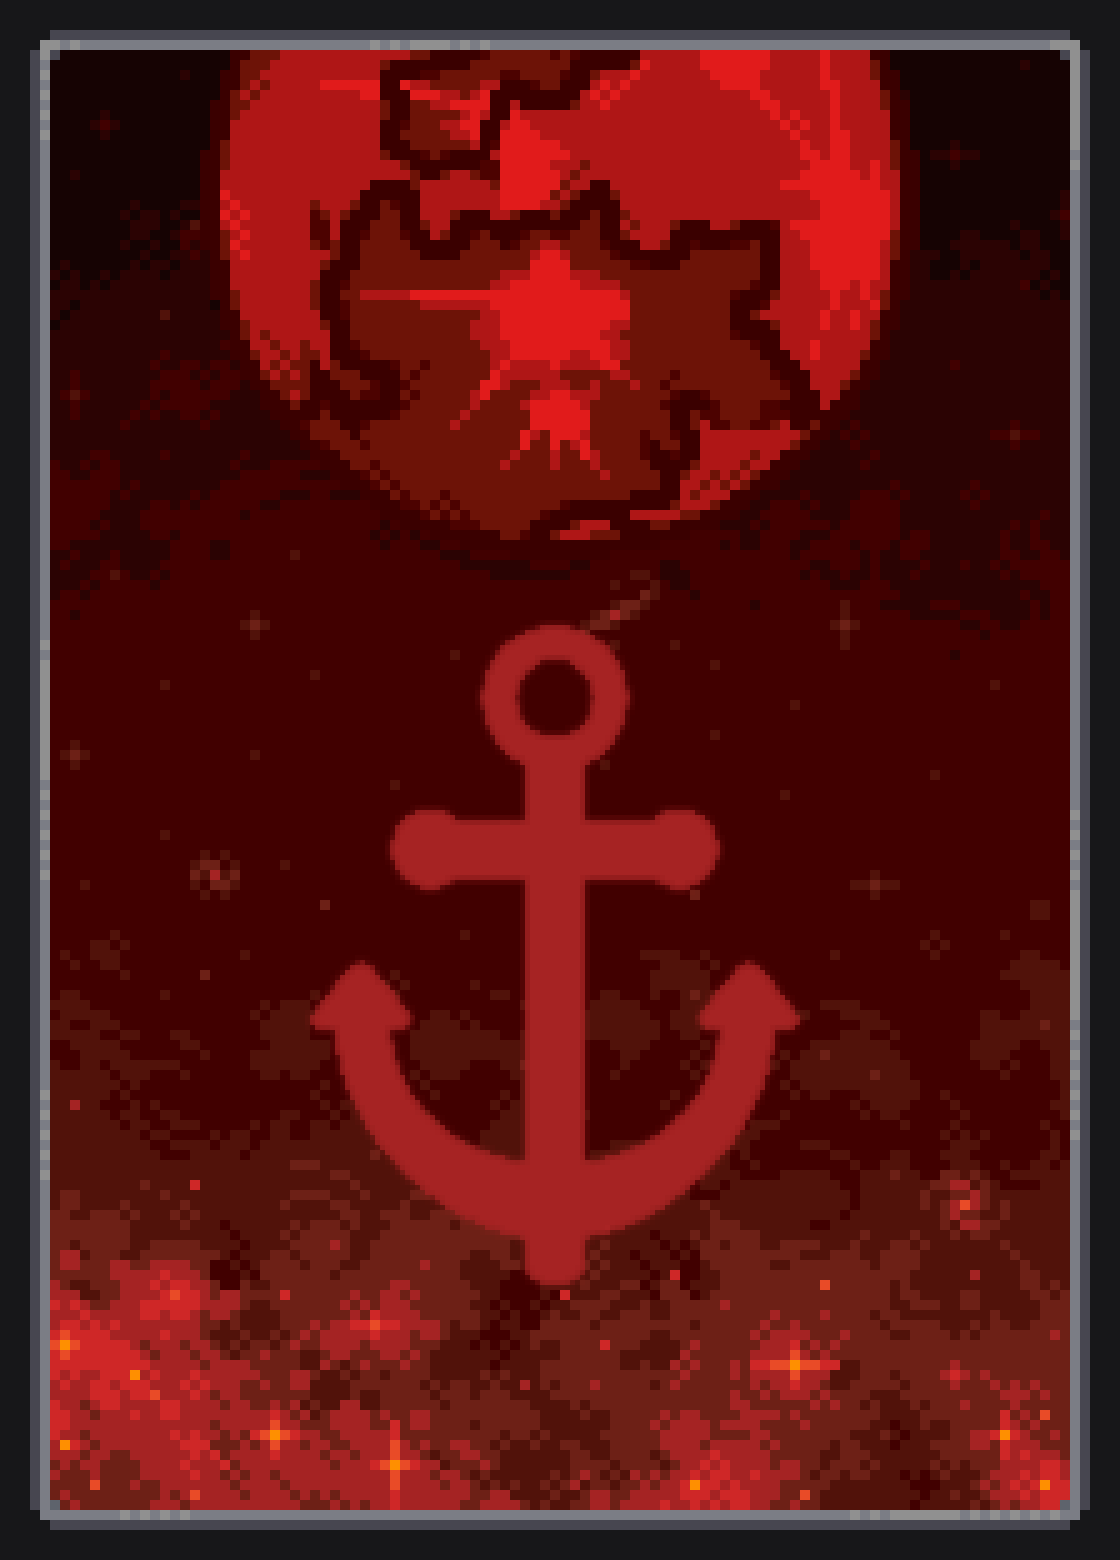
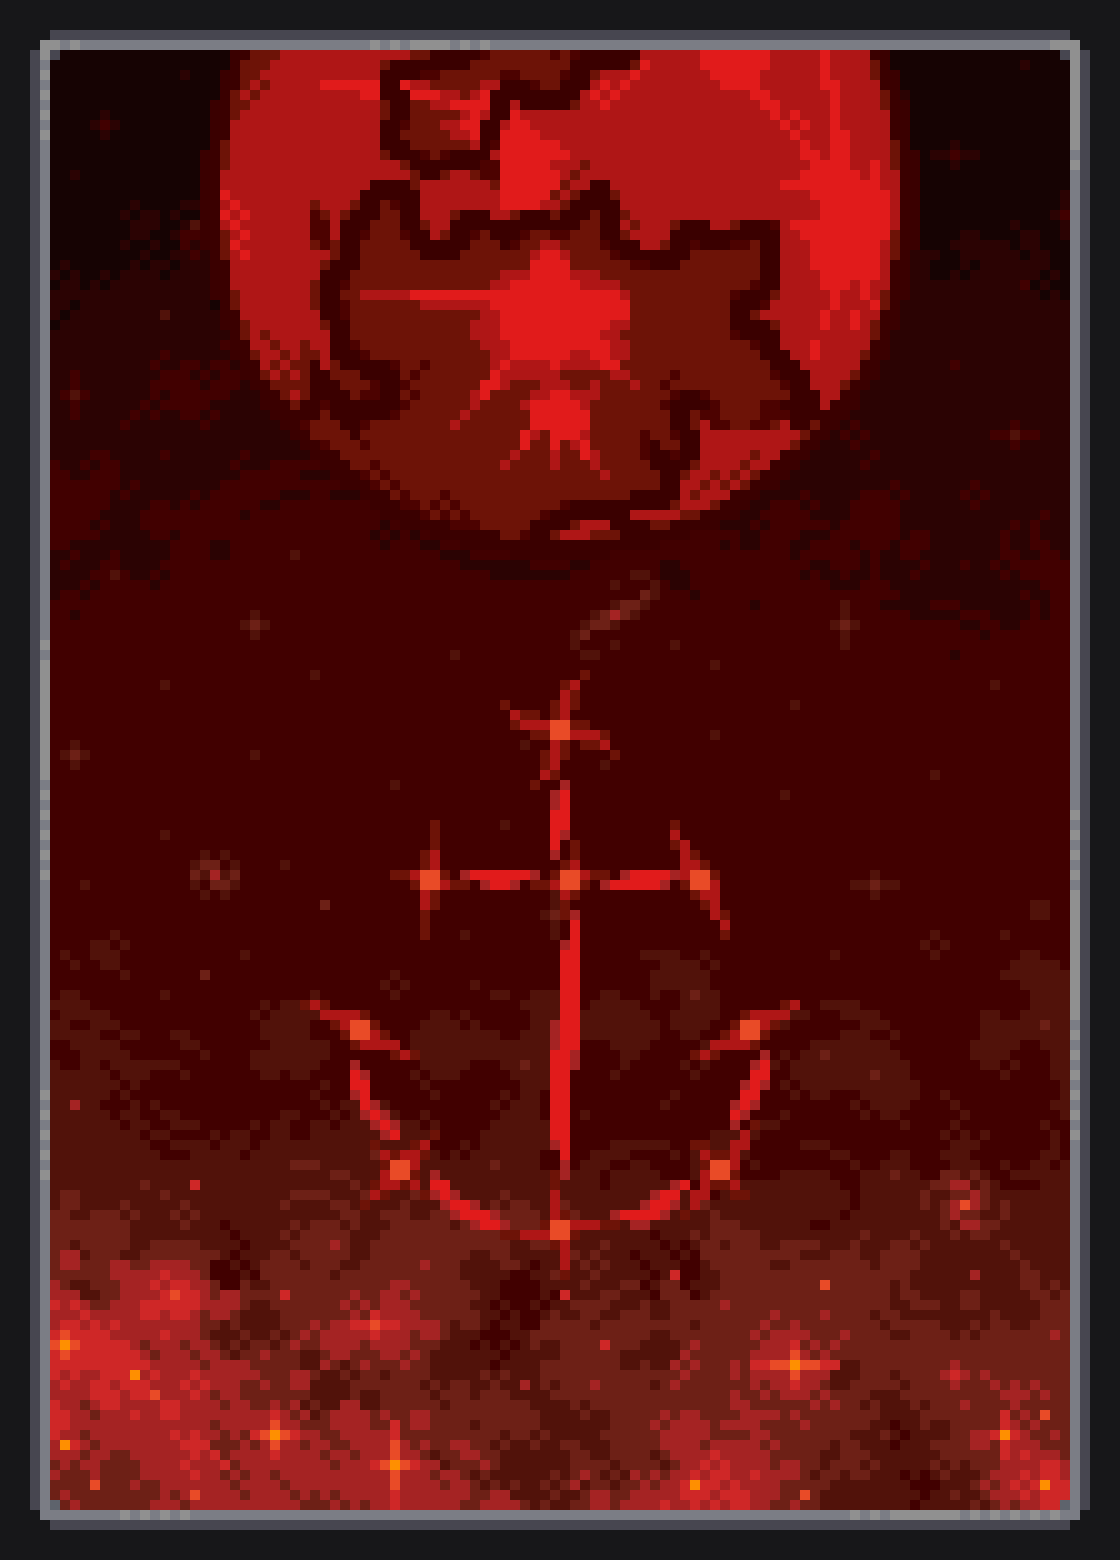
Anchor Boon art and buff

Changed region(s): [[0.2812, 0.4, 0.7188, 0.8308]]

diff --git a/experiences/wiki/pages/boons.html b/experiences/wiki/pages/boons.html
@@ -125,7 +125,7 @@
         <td><img src="../../campaign_assets/Boons/Anchor.png" style="margin-right: 10px;" alt="Challenge Icon" width="70px"></td>
         <td>
           <strong>Boon of the Anchor</strong>
-          <p>Your cards cannot be moved by outside forces.</p>
+          <p>You can prevent your cards from moving whenever they would.</p>
         </td>
       </tr></table></div></td>
     </tr>
